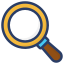
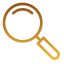
cambios en img

diff --git a/index.html b/index.html
@@ -2,7 +2,7 @@
 <html lang="en">
   <head>
     <meta charset="UTF-8" />
-    <link rel="icon" type="image/svg+xml" href="" />
+    <link rel="icon" type="" href="./public/img/vinilo.png" />
     <meta name="viewport" content="width=device-width, initial-scale=1.0" />
     <title>TocaDiscos</title>
   </head>

diff --git a/src/App.jsx b/src/App.jsx
@@ -12,7 +12,7 @@ function App(props) {
 
     <>
     <NavBar />
-    <ItemListContainer saludo='Donde el tiempo y la distancia se juntan' />
+    <ItemListContainer saludo='Buenas canciones, siempre' />
     </>
 
   )
